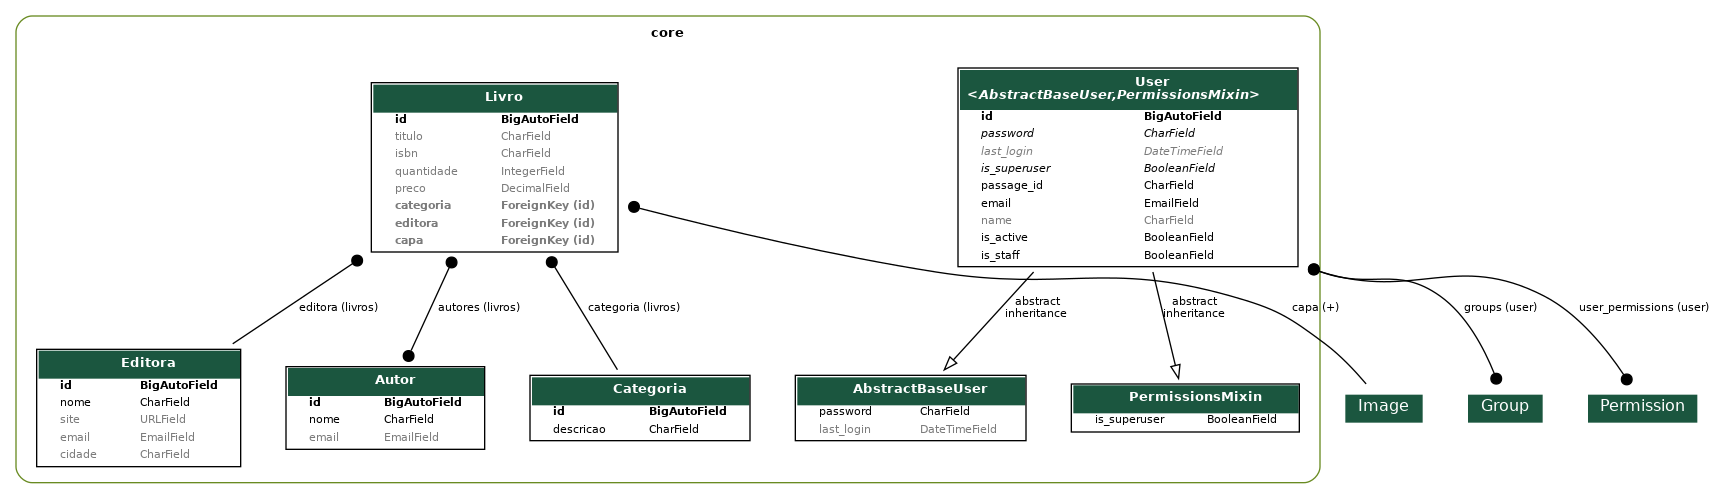
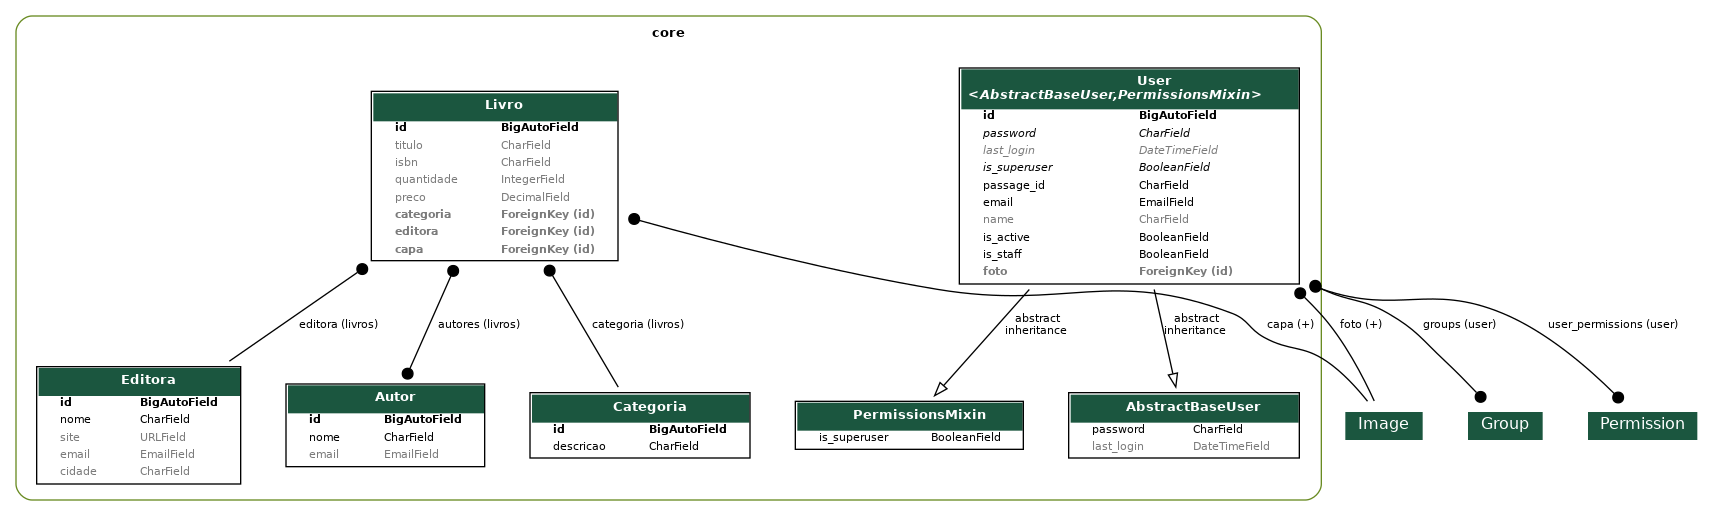
Inclusão da foto de perfil no usuário

diff --git a/app/settings.py b/app/settings.py
@@ -141,22 +141,15 @@ DEFAULT_AUTO_FIELD = "django.db.models.BigAutoField"
 
 AUTH_USER_MODEL = "core.User"
 
+
+
 REST_FRAMEWORK = {
-    
-    "DEFAULT_AUTHENTICATION_CLASSES": ("core.authentication.TokenAuthentication",), # Autenticação no passage.id
-    "DEFAULT_PERMISSION_CLASSES": ("rest_framework.permissions.IsAuthenticated"), # Permissão total para usuários autenticados
-     "DEFAULT_PERMISSION_CLASSES": 
-        "rest_framework.permissions.IsAuthenticated",
-
+    # "DEFAULT_AUTHENTICATION_CLASSES": ("rest_framework_simplejwt.authentication.JWTAuthentication",),
+    # "DEFAULT_PERMISSION_CLASSES": ("rest_framework.permissions.DjangoModelPermissions",),
+    "DEFAULT_PAGINATION_CLASS": "rest_framework.pagination.PageNumberPagination",
+    "DEFAULT_SCHEMA_CLASS": "drf_spectacular.openapi.AutoSchema",
+    "PAGE_SIZE": 10,
 }
-
-# REST_FRAMEWORK = {
-#     # "DEFAULT_AUTHENTICATION_CLASSES": ("rest_framework_simplejwt.authentication.JWTAuthentication",),
-#     # "DEFAULT_PERMISSION_CLASSES": ("rest_framework.permissions.DjangoModelPermissions",),
-#     "DEFAULT_PAGINATION_CLASS": "rest_framework.pagination.PageNumberPagination",
-#     "DEFAULT_SCHEMA_CLASS": "drf_spectacular.openapi.AutoSchema",
-#     "PAGE_SIZE": 10,
-# }
 
 SPECTACULAR_SETTINGS = {
     "TITLE": "<PROJETO> API",

diff --git a/core/migrations/0014_user_foto_alter_user_passage_id.py b/core/migrations/0014_user_foto_alter_user_passage_id.py
@@ -1,0 +1,39 @@
+# Generated by Django 5.0.6 on 2024-09-10 17:41
+
+import django.db.models.deletion
+import uuid
+from django.db import migrations, models
+
+
+class Migration(migrations.Migration):
+
+    dependencies = [
+        ("core", "0013_alter_user_managers_user_passage_id_alter_user_email_and_more"),
+        ("uploader", "0001_initial"),
+    ]
+
+    operations = [
+        migrations.AddField(
+            model_name="user",
+            name="foto",
+            field=models.ForeignKey(
+                blank=True,
+                default=None,
+                null=True,
+                on_delete=django.db.models.deletion.SET_NULL,
+                related_name="+",
+                to="uploader.image",
+            ),
+        ),
+        migrations.AlterField(
+            model_name="user",
+            name="passage_id",
+            field=models.CharField(
+                default=uuid.UUID("50eda9a7-fedd-4075-a409-f7d052e83be7"),
+                help_text="Passage ID",
+                max_length=255,
+                unique=True,
+                verbose_name="passage_id",
+            ),
+        ),
+    ]

diff --git a/core/migrations/0015_alter_user_passage_id.py b/core/migrations/0015_alter_user_passage_id.py
@@ -1,0 +1,25 @@
+# Generated by Django 5.0.6 on 2024-09-10 17:43
+
+import uuid
+from django.db import migrations, models
+
+
+class Migration(migrations.Migration):
+
+    dependencies = [
+        ("core", "0014_user_foto_alter_user_passage_id"),
+    ]
+
+    operations = [
+        migrations.AlterField(
+            model_name="user",
+            name="passage_id",
+            field=models.CharField(
+                default=uuid.UUID("03ba29e6-6a77-4c84-a453-69d82f26567b"),
+                help_text="Passage ID",
+                max_length=255,
+                unique=True,
+                verbose_name="passage_id",
+            ),
+        ),
+    ]

diff --git a/core/serializers/user.py b/core/serializers/user.py
@@ -1,9 +1,23 @@
-from rest_framework.serializers import ModelSerializer
+from rest_framework.serializers import ModelSerializer, SlugRelatedField
 
 from core.models import User
+from uploader.models import Image
+from uploader.serializers import ImageSerializer
 
 
 class UserSerializer(ModelSerializer):
+    foto_attachment_key = SlugRelatedField(
+        source="foto",
+        queryset=Image.objects.all(),
+        slug_field="attachment_key",
+        required=False,
+        write_only=True,
+    )
+    foto = ImageSerializer(
+        required=False,
+        read_only=True
+    )
+
     class Meta:
         model = User
         fields = "__all__"

diff --git a/core/models/user.py b/core/models/user.py
@@ -13,6 +13,11 @@ from django.utils.translation import gettext_lazy as _
 from uuid import uuid4
 
 
+
+from uploader.models import Image
+
+
+
 class UserManager(BaseUserManager):
     """Manager for users."""
 
@@ -71,6 +76,14 @@ class User(AbstractBaseUser, PermissionsMixin):
         default=False,
         verbose_name=_("Usuário é da equipe"),
         help_text=_("Indica que este usuário pode acessar o Admin.")
+    )
+    foto = models.ForeignKey(
+        Image,
+        related_name="+",
+        on_delete=models.SET_NULL,
+        null=True,
+        blank=True,
+        default=None,
     )
 
     objects = UserManager()

diff --git a/core/admin.py b/core/admin.py
@@ -50,6 +50,11 @@ class UserAdmin(BaseUserAdmin):
         ),
     )
 
+class UserAdmin(UserAdmin):
+    
+        (_("Personal Info"), {"fields": ("name","foto")}), # inclua a foto aqui
+
+
 
 @admin.register(User)
 class UserAdmin(UserAdmin):
